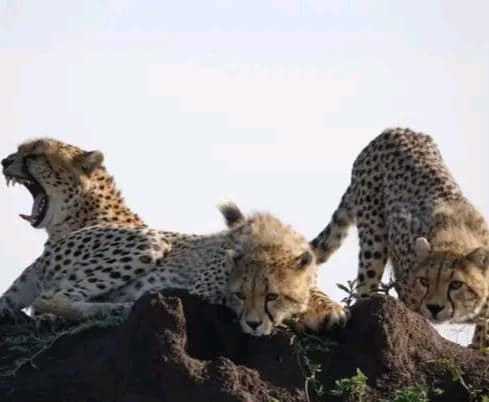
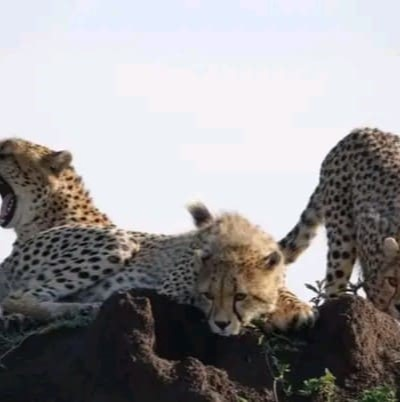
img resize and footer info add

diff --git a/src/app/components/header/header.component.html b/src/app/components/header/header.component.html
@@ -101,8 +101,8 @@
 
 <a
     type="button"
-    class="z-30 !fixed ml-auto bottom-3 right-3"
-    href="https://web.whatsapp.com/send?phone=254719449630&text=" target="_blank">
+    class="z-30 !fixed ml-auto bottom-6 right-6"
+    href="https://wa.me/254719449630" target="_blank">
     <svg xmlns="http://www.w3.org/2000/svg"  viewBox="0 0 48 48" width="48px" height="48px" clip-rule="evenodd">
         <path fill="#fff" d="M4.868,43.303l2.694-9.835C5.9,30.59,5.026,27.324,5.027,23.979C5.032,13.514,13.548,5,24.014,5c5.079,0.002,9.845,1.979,13.43,5.566c3.584,3.588,5.558,8.356,5.556,13.428c-0.004,10.465-8.522,18.98-18.986,18.98c-0.001,0,0,0,0,0h-0.008c-3.177-0.001-6.3-0.798-9.073-2.311L4.868,43.303z"/>
         <path fill="#fff" d="M4.868,43.803c-0.132,0-0.26-0.052-0.355-0.148c-0.125-0.127-0.174-0.312-0.127-0.483l2.639-9.636c-1.636-2.906-2.499-6.206-2.497-9.556C4.532,13.238,13.273,4.5,24.014,4.5c5.21,0.002,10.105,2.031,13.784,5.713c3.679,3.683,5.704,8.577,5.702,13.781c-0.004,10.741-8.746,19.48-19.486,19.48c-3.189-0.001-6.344-0.788-9.144-2.277l-9.875,2.589C4.953,43.798,4.911,43.803,4.868,43.803z"/>

diff --git a/src/app/components/footer/footer.component.html b/src/app/components/footer/footer.component.html
@@ -65,7 +65,7 @@
       </div>
       <hr class="my-6 border-gray-200 sm:mx-auto dark:border-gray-700 lg:my-8" />
       <div class="sm:flex sm:items-center sm:justify-between">
-          <span class="text-sm text-gray-500 sm:text-center dark:text-gray-400">© 2023 <a [routerLink]="['/about']" class="hover:underline">Kenya Adventure con Elio</a>. All Rights Reserved.</span>
+          <span class="text-sm text-gray-500 sm:text-center dark:text-gray-400">© 2023 <a [routerLink]="['/about']" class="hover:underline">Kenya Adventure con Elio</a>. All Rights Reserved. Powered by 💪<a href="mailto: website.oxford222@passfwd.com" class="text-amber-600 underline hover:no-underline">Balabiot</a></span>
           <div class="flex mt-4 space-x-5 sm:justify-center sm:mt-0">
               
           </div>
